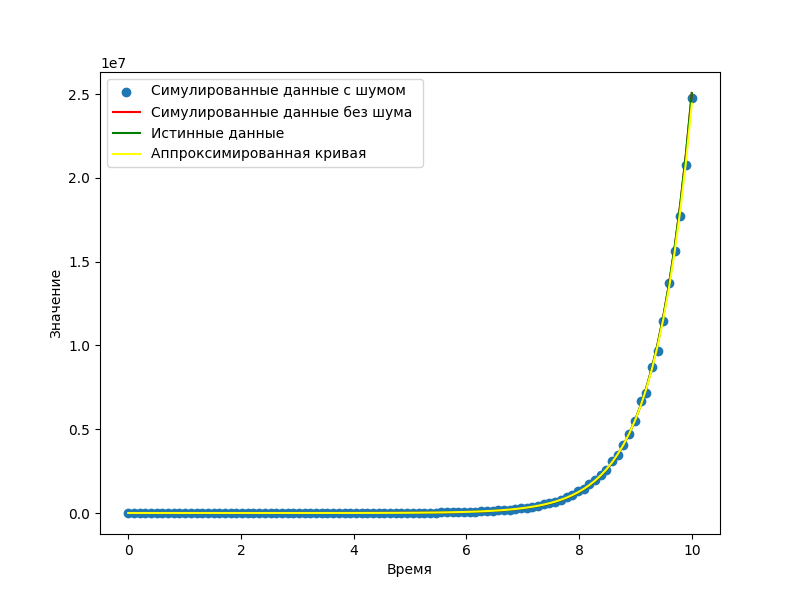
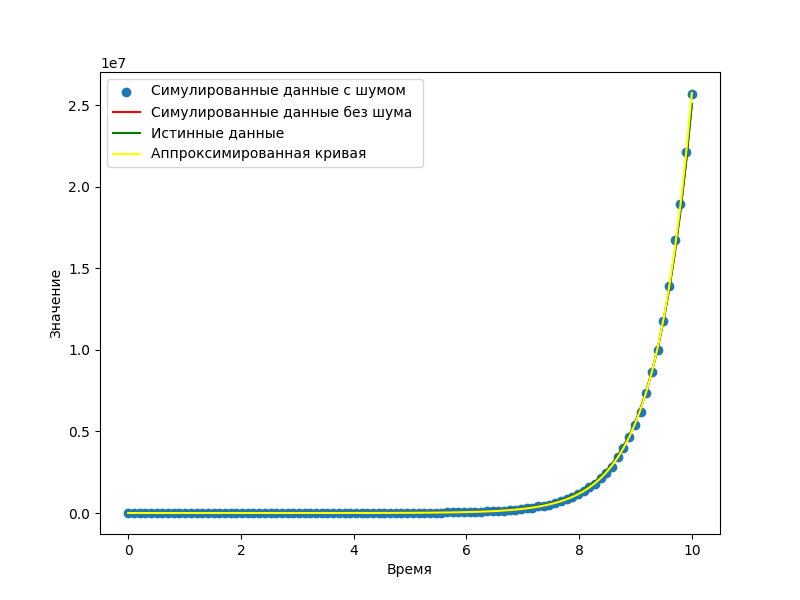
Add changes

diff --git a/README.md b/README.md
@@ -15,6 +15,6 @@ Output:
 ![output](output2.png)
 True parameters: [1.5, 10]
 
-Fitted Parameters with noise: [ 1.47665028 12.4631137 ]
+Fitted Parameters with noise: [1.53874125 6.68542665]
 
 Fitted Parameters without noise:[ 1.5 10. ]
